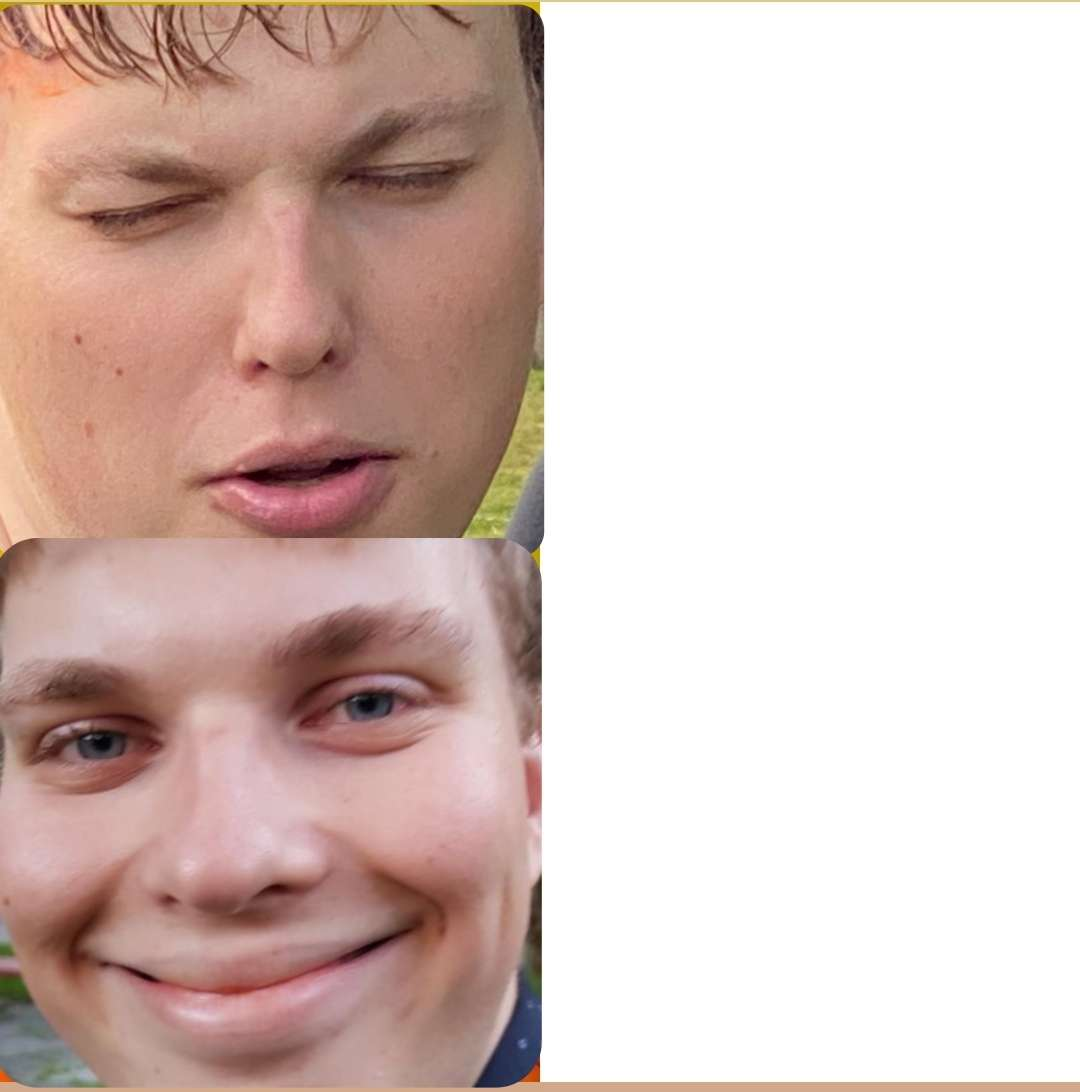
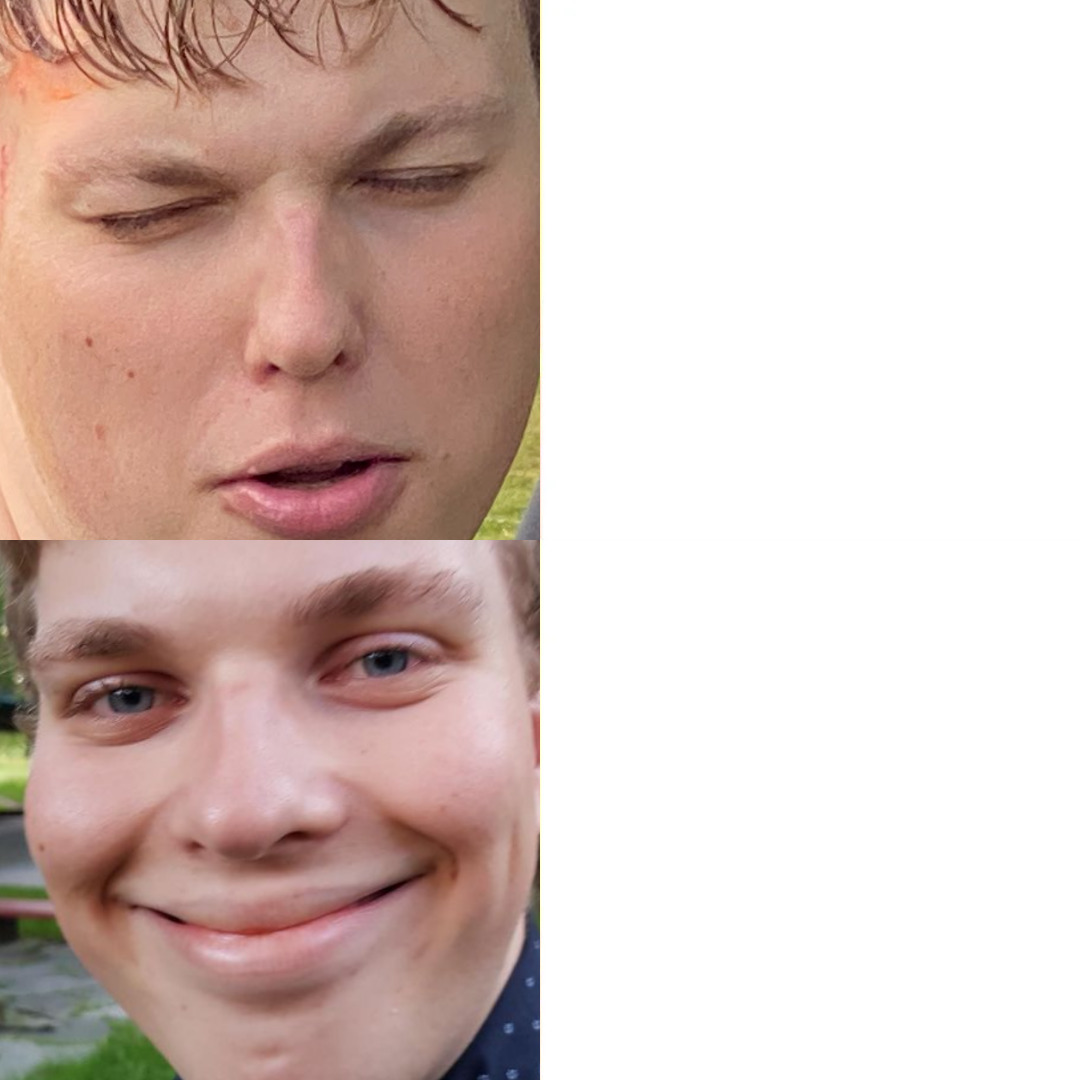
replace sivert meme template with 1:1 version

diff --git a/src/cogs/meme.py b/src/cogs/meme.py
@@ -79,6 +79,7 @@ class Meme(commands.Cog):
         text (str): Text to be formatted.
         textbox_width (int): Width of the textbox.
         """
+
         font_size = int(textbox_width / (3 * len(text) ** (1 / 2)))
         font = ImageFont.truetype("./src/assets/fonts/RobotoMono-Medium.ttf", font_size)
 
@@ -86,6 +87,30 @@ class Meme(commands.Cog):
         text = textwrap.fill(text, width=line_length)
 
         return text, font
+
+    @staticmethod
+    def __draw_text(image: Image.Image, text: str, font: ImageFont.FreeTypeFont, offset: tuple = (0, 0)):
+        """
+        Draws meme text on preferred meme template.
+
+        Parameters
+        ----------
+        image (Image.Image): The meme template.
+        text (str): The text to be drawn.
+        font (ImageFont.FreeTypeFont): The font, with its size set, to be used.
+        offset (tuple): The offset of the text from the top left corner of the image. Defaults to (0, 0).
+        """
+
+        box_size = (540, 540)
+
+        box = Image.new("RGB", box_size, (255, 255, 255))
+        draw = ImageDraw.Draw(box)
+
+        text_box = draw.multiline_textbbox((box_size[0] // 2, box_size[1] // 2), text=text, font=font, align="center")
+        text_box = ((box.size[0] - text_box[0]) // 2, (box.size[1] - text_box[1]) // 2)
+        draw.multiline_text(text_box, text, font=font, fill=(0, 0, 0, 255), align="center")
+
+        image.paste(box, offset)
 
     @app_commands.checks.bot_has_permissions(embed_links=True)
     @app_commands.checks.cooldown(1, 5)
@@ -107,30 +132,12 @@ class Meme(commands.Cog):
         template = Image.open("./src/assets/misc/sivert_goodbad.jpg")
 
         # Calculate font sizes
-        top_text, top_font = Meme.__format_text(dårlig_tekst, 536)
-        bottom_text, bottom_font = Meme.__format_text(bra_tekst, 536)
+        top_text, top_font = Meme.__format_text(dårlig_tekst, 540)
+        bottom_text, bottom_font = Meme.__format_text(bra_tekst, 540)
 
-        # Draw top text
-        box_size = (536, 538)
-        box = Image.new("RGB", box_size, (255, 255, 255))
-        draw = ImageDraw.Draw(box)
-        text_box = draw.multiline_textbbox(
-            (box_size[0] // 2, box_size[1] // 2), text=top_text, font=top_font, align="center"
-        )
-        text_box = ((box.size[0] - text_box[0]) // 2, (box.size[1] - text_box[1]) // 2)
-        draw.multiline_text(text_box, top_text, font=top_font, fill=(0, 0, 0, 255), align="center")
-        template.paste(box, (536, 0))
-
-        # Draw bottom text
-        box_size = (536, 554)
-        box = Image.new("RGB", box_size, (255, 255, 255))
-        draw = ImageDraw.Draw(box)
-        text_box = draw.multiline_textbbox(
-            (box_size[0] // 2, box_size[1] // 2), text=bottom_text, font=bottom_font, align="center"
-        )
-        text_box = ((box.size[0] - text_box[0]) // 2, (box.size[1] - text_box[1]) // 2)
-        draw.multiline_text(text_box, bottom_text, font=bottom_font, fill=(0, 0, 0, 255), align="center")
-        template.paste(box, (536, 538))
+        # Draw text
+        Meme.__draw_text(template, top_text, top_font, offset=(540, 0))
+        Meme.__draw_text(template, bottom_text, bottom_font, offset=(540, 540))
 
         # Save image to buffer
         output = BytesIO()
